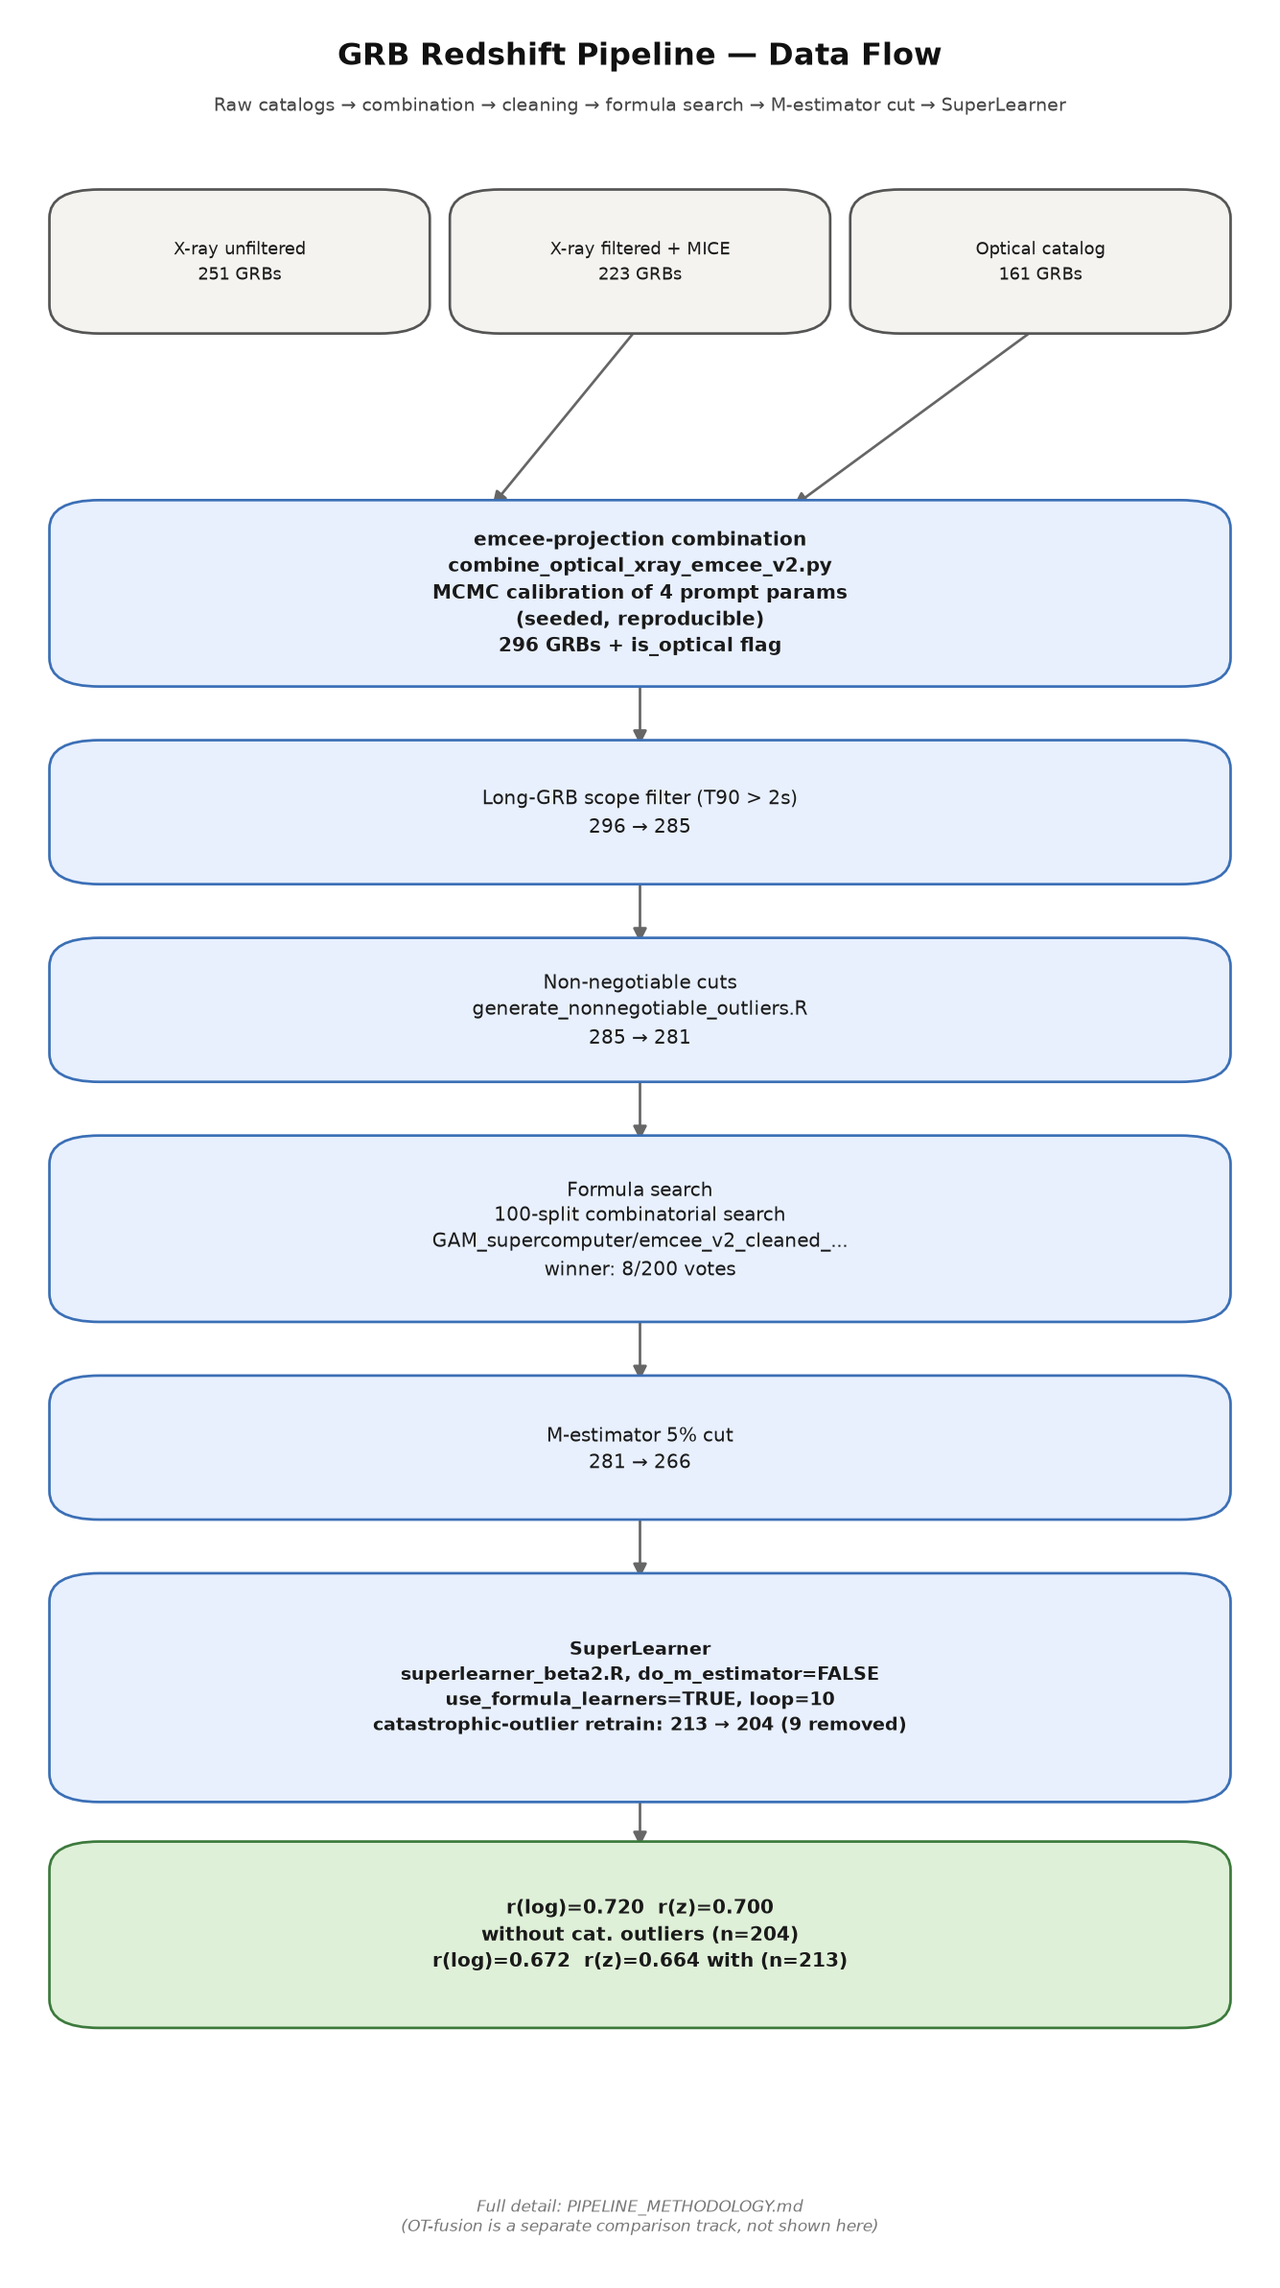
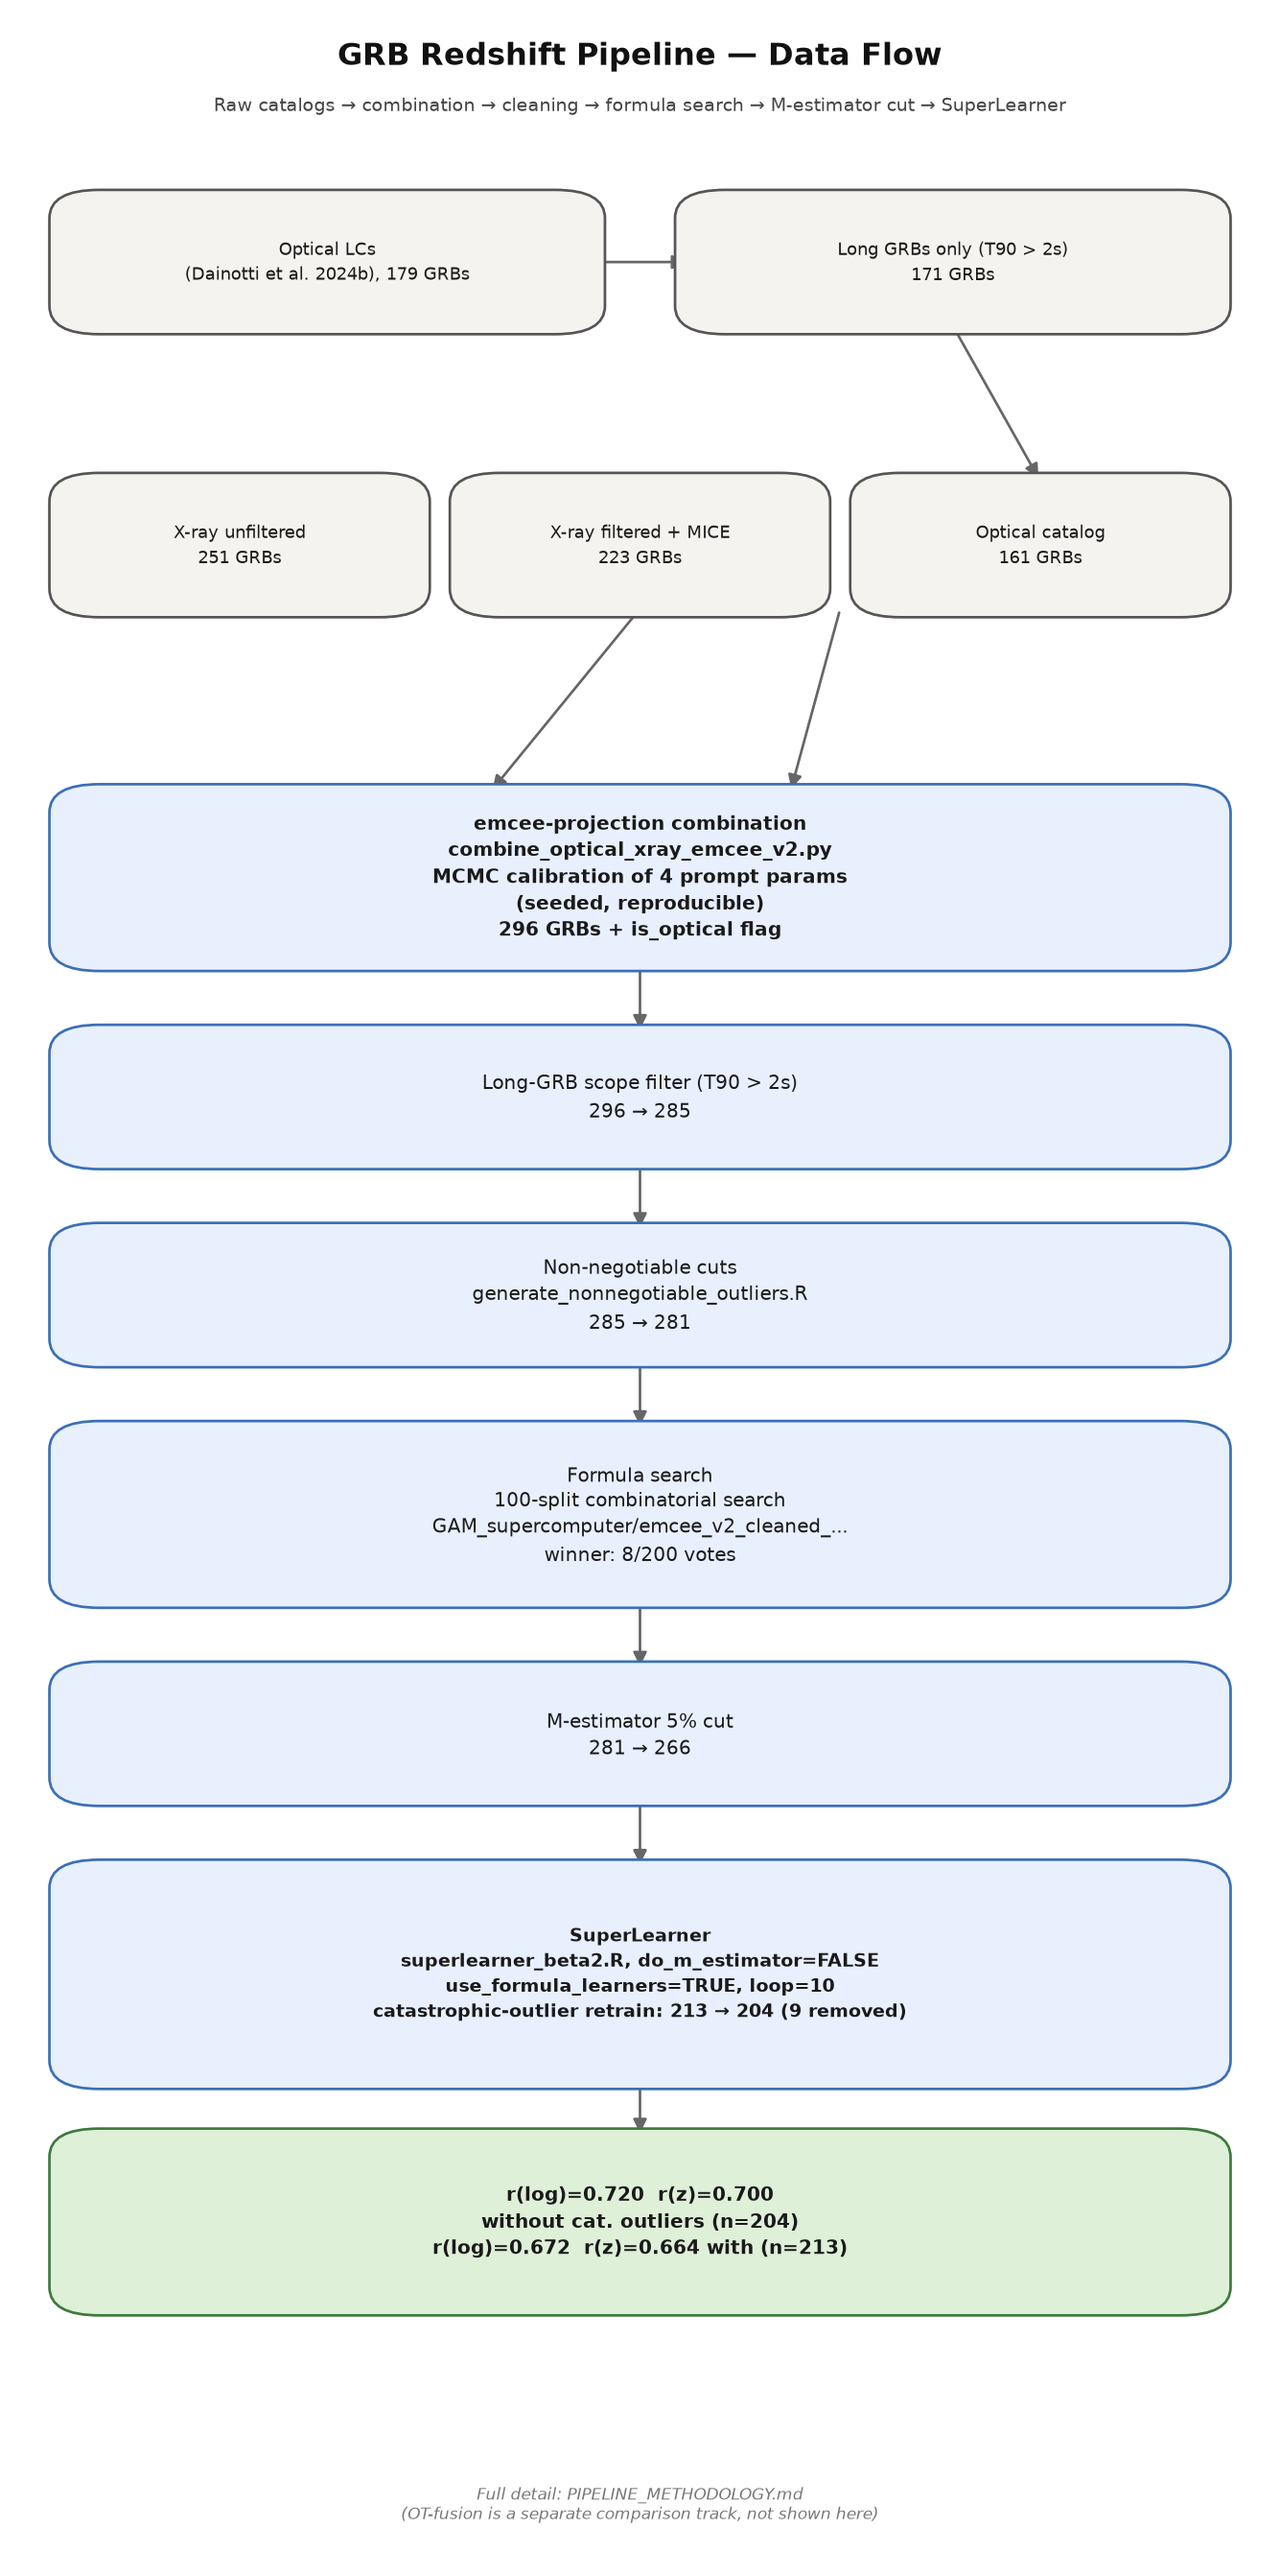
Add confirmed optical catalog provenance (179 -> 171 GRBs) to pipeline docs
Dainotti confirmed directly: the 171-GRB optical catalog traces back to a
179-GRB optical-LC sample from Dainotti et al. (2024b), filtered to long
GRBs only (T90 > 2s), dropping 8 short GRBs. She did this filtering step
herself. Added as a clean upstream row in the pipeline diagram and as a
note in PIPELINE_METHODOLOGY.md Sec 1. The further 171 -> 161 reduction is
a separate data-quality cut (the "_error-cut" file), not a further
short/long split.

diff --git a/PIPELINE_METHODOLOGY.md b/PIPELINE_METHODOLOGY.md
@@ -17,6 +17,15 @@ where to find the outputs. Written alongside the final production runs of
 | `Data/OnlyLGRBs_data_171_optical_corrected.csv` | Optical catalog, read by `combine_optical_xray_ot_v3.py` | 161 |
 | `Data/optical_data.csv` | Raw/uncleaned optical catalog (not used in combination; historical) | 171 |
 
+**Optical catalog provenance (confirmed by Dainotti directly):** the 171-GRB
+optical catalog traces back to a 179-GRB optical-LC sample from Dainotti et al.
+(2024b) ("we investigated this issue with a sample of 179 GRBs with optical
+LCs" — paper.pdf, Sec 1), filtered to long GRBs only (T90 > 2s), which drops
+8 short GRBs: 179 → 171. Dainotti did this specific filtering step herself.
+The further 171 → 161 reduction (in the `_processed_error-cut_MICE` file) is
+a data-quality cut, not a further short/long split — see the `_error-cut`
+naming.
+
 **The two optical catalog files above are the same data.** Confirmed by direct
 diff: same 161 GRBs, same 19 columns, every value identical except one —
 GRB 170405A's `log10PeakFlux`/`log10PeakFluxErr` (0.099/0.083 in the MICE
